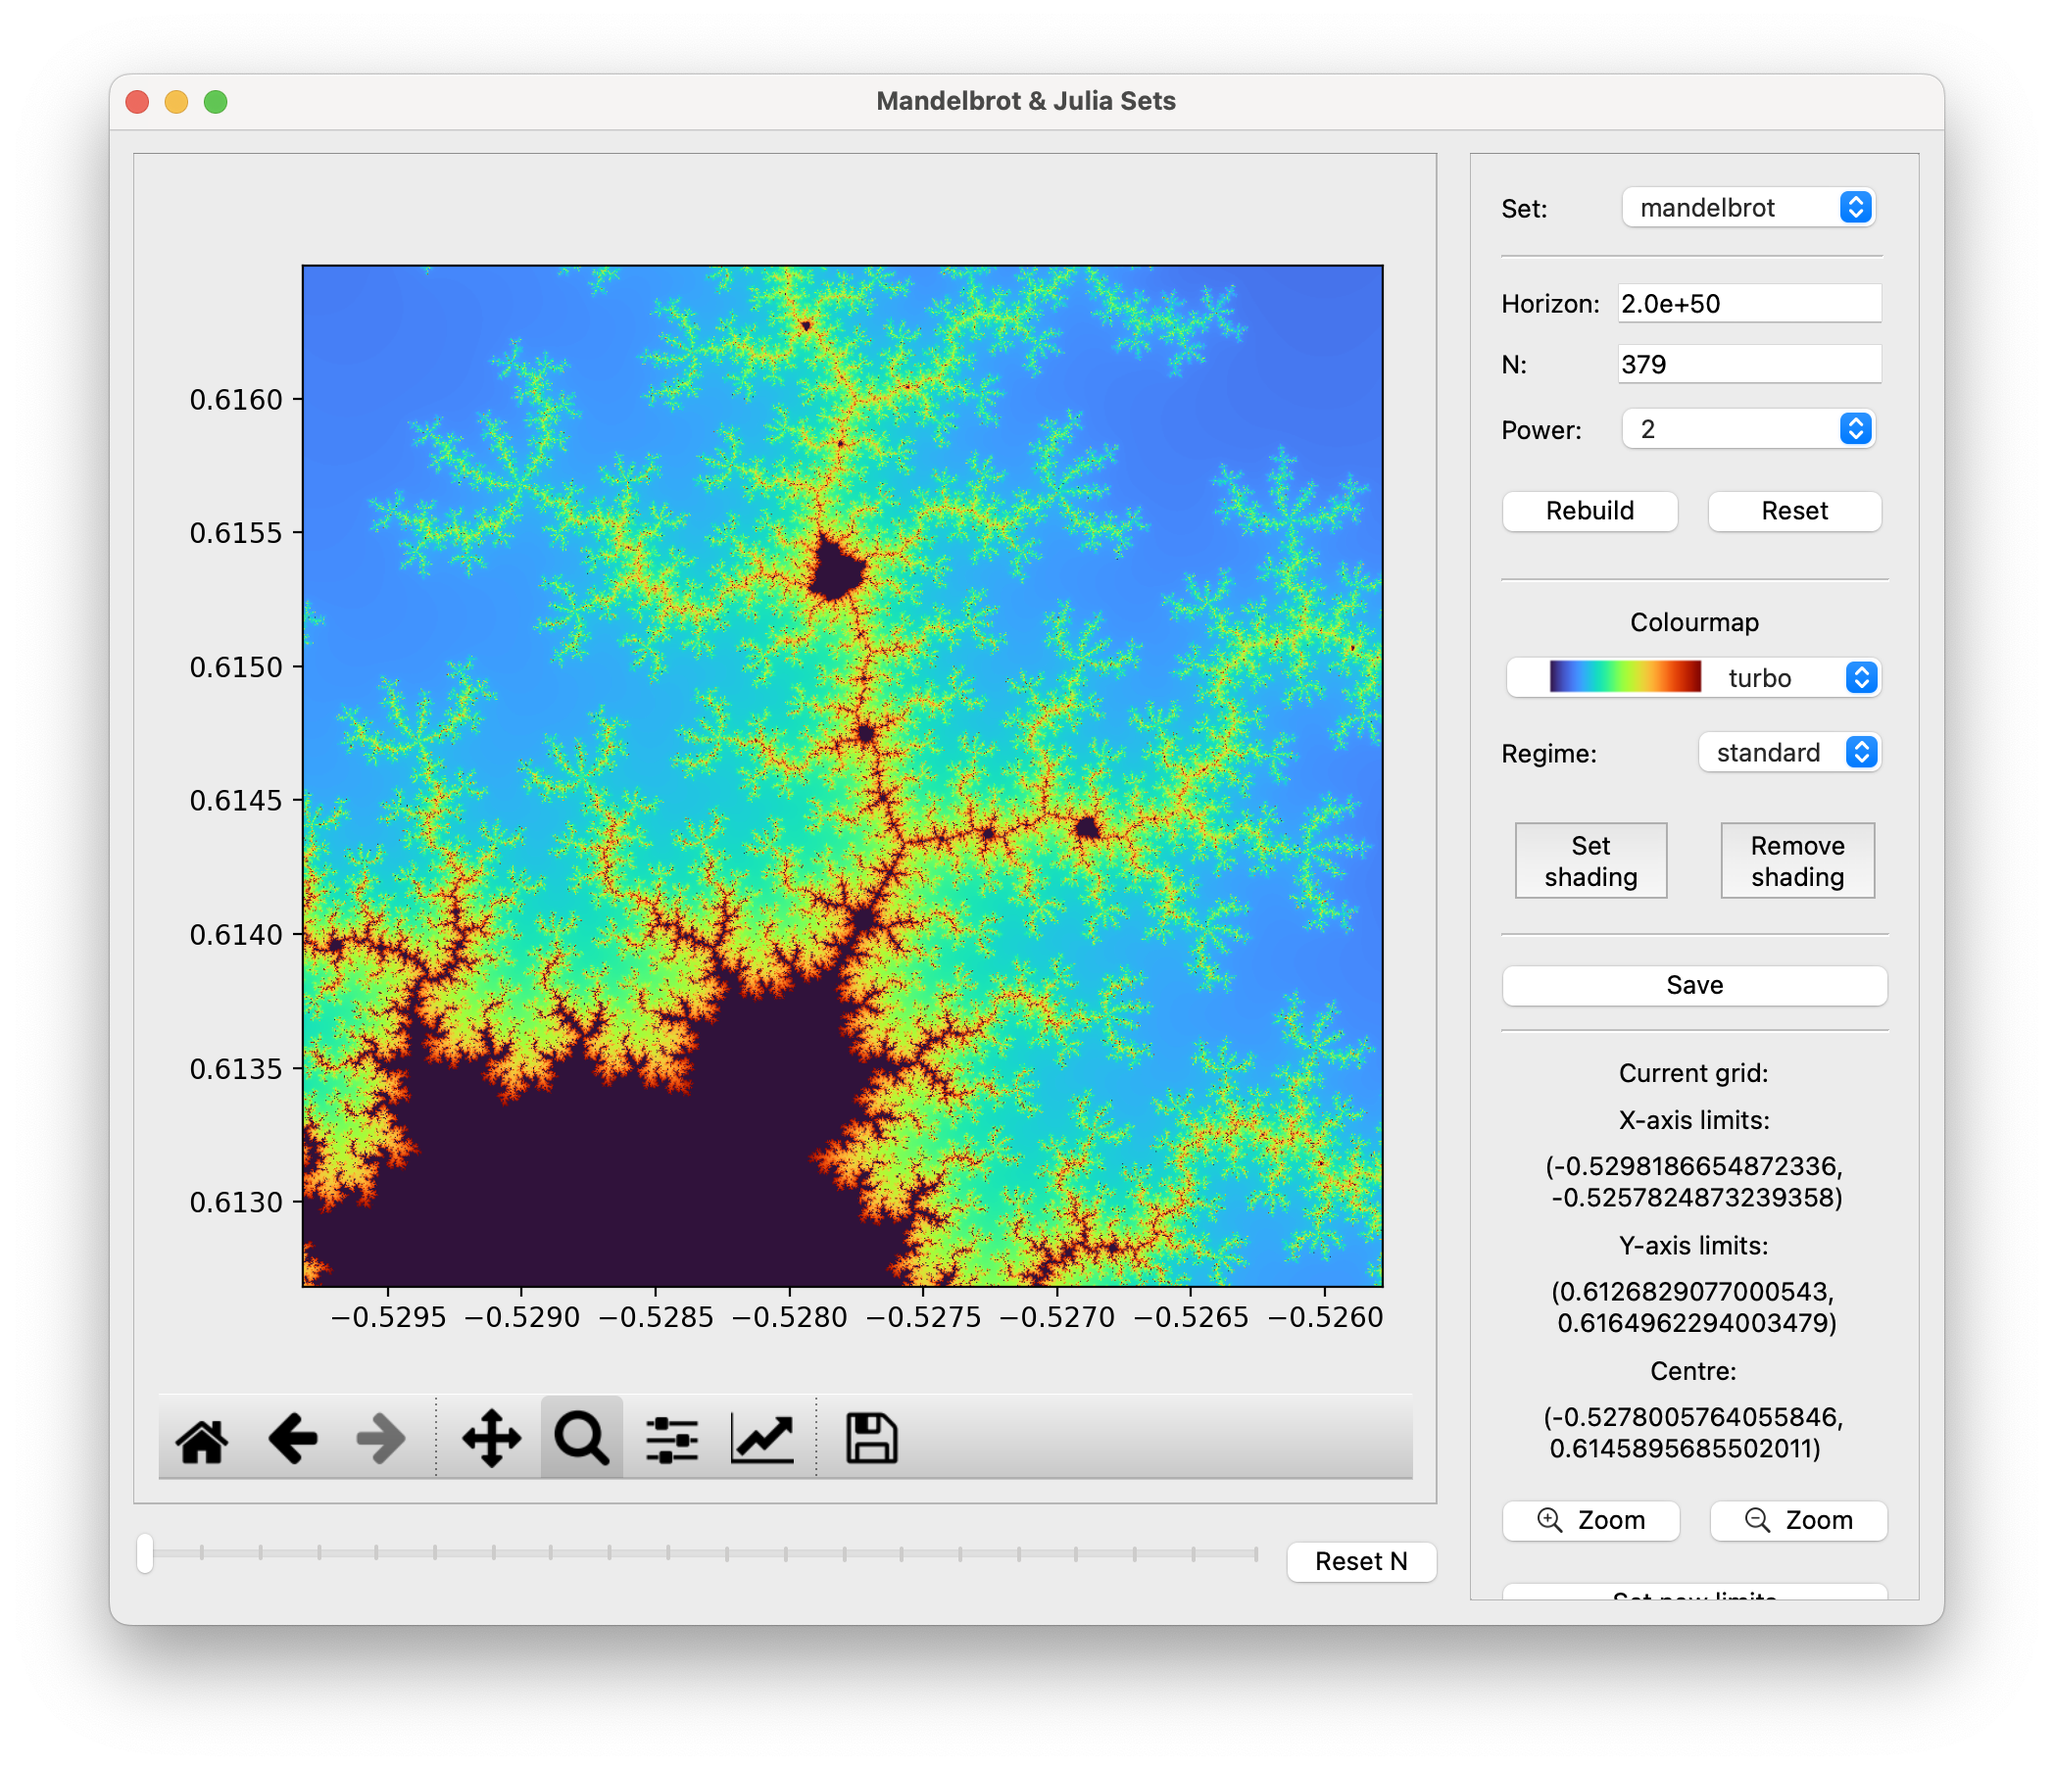
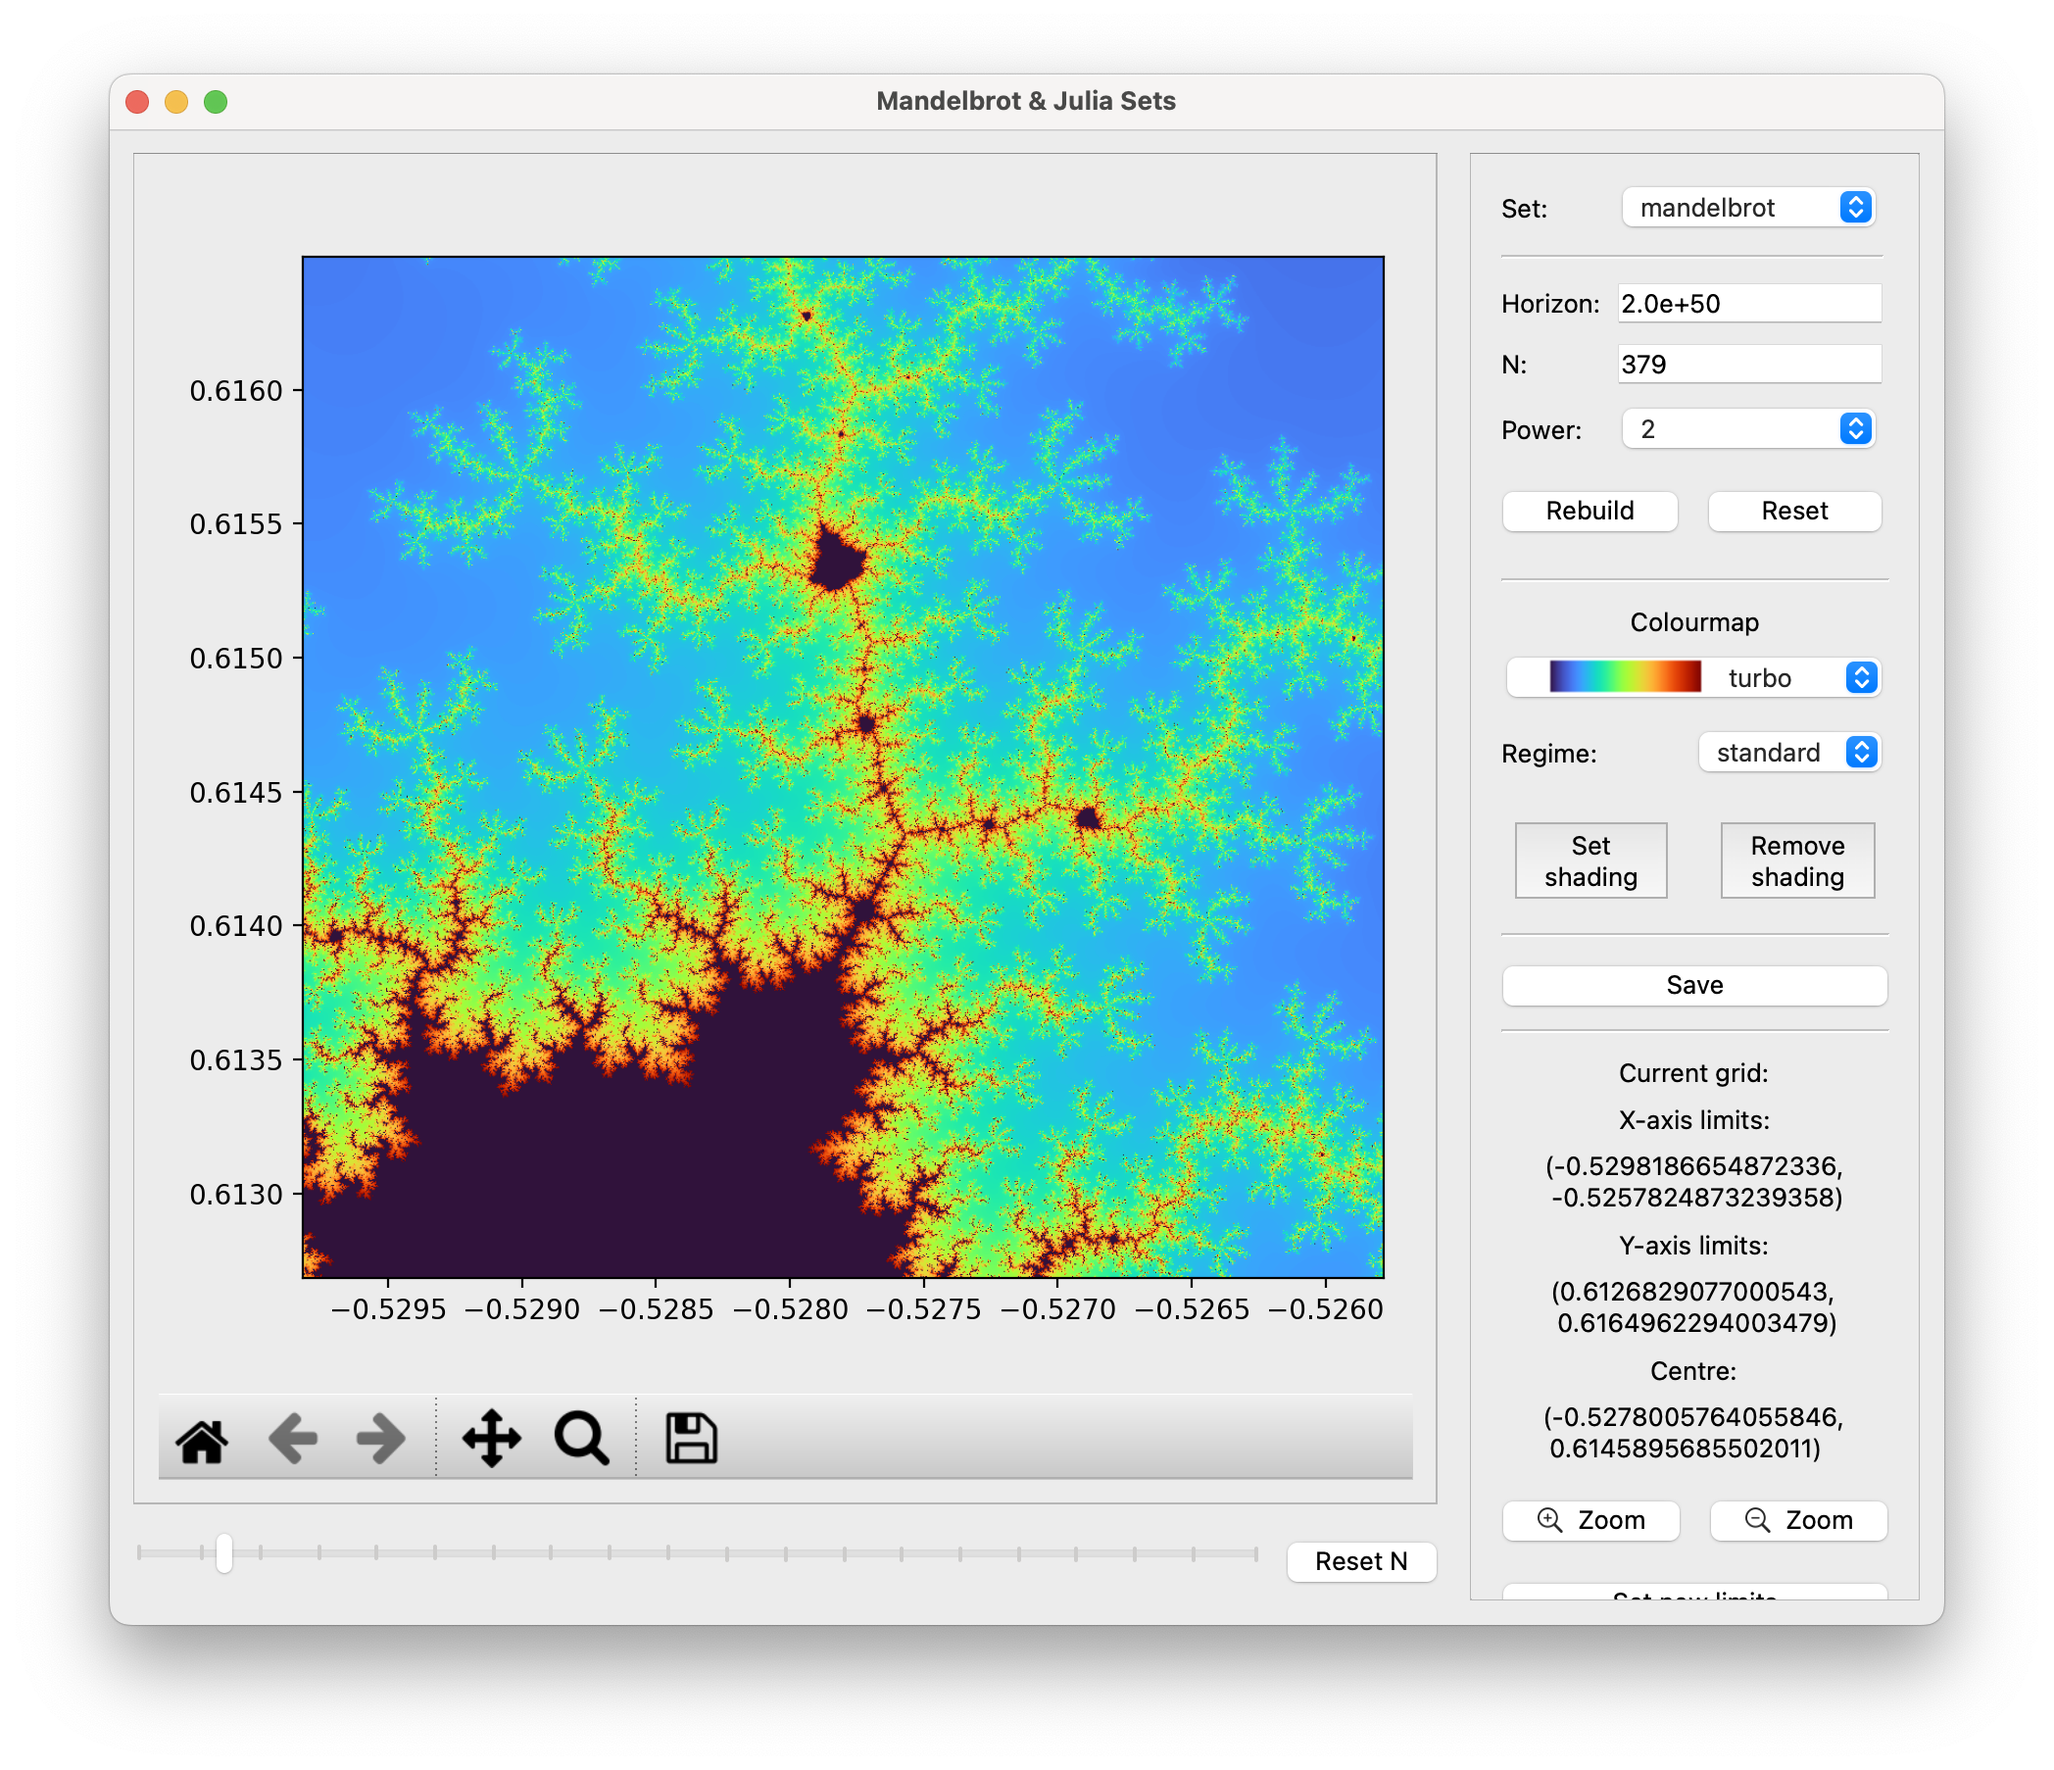
Fix the Home and Save buttons on the mpl toolbar.

diff --git a/Interface.py b/Interface.py
@@ -1,9 +1,9 @@
+import json
 import math
 import sys
 
 import matplotlib
 import numpy as np
-import json
 from PySide6.QtCore import Slot, QSize, Qt, QTimer, QPointF
 from PySide6.QtGui import QPalette, QIcon, QPixmap, QPainter, QColor, QBrush, QMouseEvent, QLinearGradient, QImage
 from PySide6.QtWidgets import (QApplication, QDialog, QVBoxLayout, QMainWindow,
@@ -57,6 +57,22 @@ class MplCanvas(FigureCanvasQTAgg):
     def __init__(self, parent=None):
         self.fig, self.ax = plt.subplots()
         super().__init__(self.fig)
+
+
+class CustomToolbar(NavigationToolbar):
+    def __init__(self, canvas, parent):
+        super().__init__(canvas, parent)
+        self.parent = parent
+        unwanted_buttons = ['Subplots', 'Customize']
+        for action in self.actions():
+            if action.text() in unwanted_buttons:
+                self.removeAction(action)
+
+    def home(self):
+        self.parent.reset_lims()
+
+    def save_figure(self):
+        self.parent.save_image()
 
 
 class BaseDialog(QDialog):
@@ -349,7 +365,7 @@ class MJSet(MyWindowMandelbrotJulia):
         im.set(clim=(im.get_array().min(), im.get_array().max()))
         self.fig.tight_layout()
 
-        self.toolbar = NavigationToolbar(self.sc, self)
+        self.toolbar = CustomToolbar(self.sc, self)
         self.main_layout = QVBoxLayout()
         self.main_layout.addWidget(self.sc)
         self.main_layout.addWidget(self.toolbar)
@@ -436,7 +452,7 @@ class MJSet(MyWindowMandelbrotJulia):
         if self.regime == 'standard':
             pass
         elif self.regime == 'sin':
-            data = (np.sin(data * self.freq))**2
+            data = (np.sin(data * self.freq)) ** 2
         if not self.shading:
             im.set(data=data, extent=(xmin, xmax, ymin, ymax), cmap=self.colourmap)
         else:
@@ -710,7 +726,7 @@ class MJSet(MyWindowMandelbrotJulia):
             self.ax.tick_params(axis='both', colors='k')
         self.fig.canvas.draw_idle()
         self.main_layout.removeWidget(self.toolbar)
-        self.toolbar = NavigationToolbar(self.sc, self)
+        self.toolbar = CustomToolbar(self.sc, self)
         self.main_layout.addWidget(self.toolbar)
 
     def set_shading_dialog(self):
@@ -893,7 +909,7 @@ class MJSet(MyWindowMandelbrotJulia):
                                        height=img_height, length=img_width,
                                        n=self.n, horizon=self.horizon, power=self.power, mode=self.mode)
         if self.regime == 'sin':
-            z = (np.sin(z * self.freq))**2
+            z = (np.sin(z * self.freq)) ** 2
         if self.save_image_dialog.ui.checkBox_withAxes.isChecked():
             fig, ax = plt.subplots(figsize=(length, height), dpi=dpi)
             if not self.shading:

diff --git a/README.md b/README.md
@@ -230,7 +230,8 @@ the `Remove shading` button.
 ## Saving
 
 Generated images can be exported in multiple formats 
-for high-quality output by clicking the `Save` button:
+for high-quality output by clicking the `Save` button or
+the `💾` icon on the matplotlib toolbar under the image:
 * **Supported Formats**: PNG, JPEG, TIFF, PDF, and EPS.
 * **Customisation**: Specify dimensions (in inches) and 
 dots per inches (DPI) to control resolution and file size.
